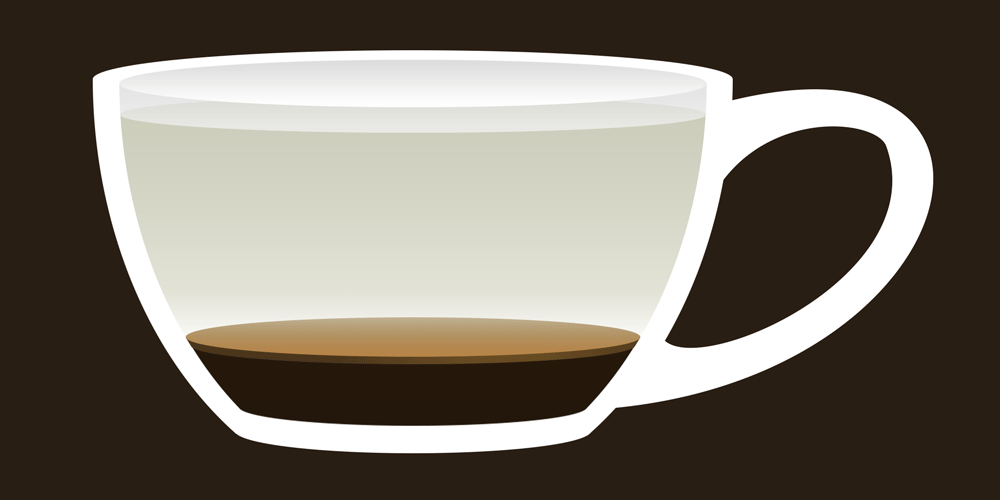
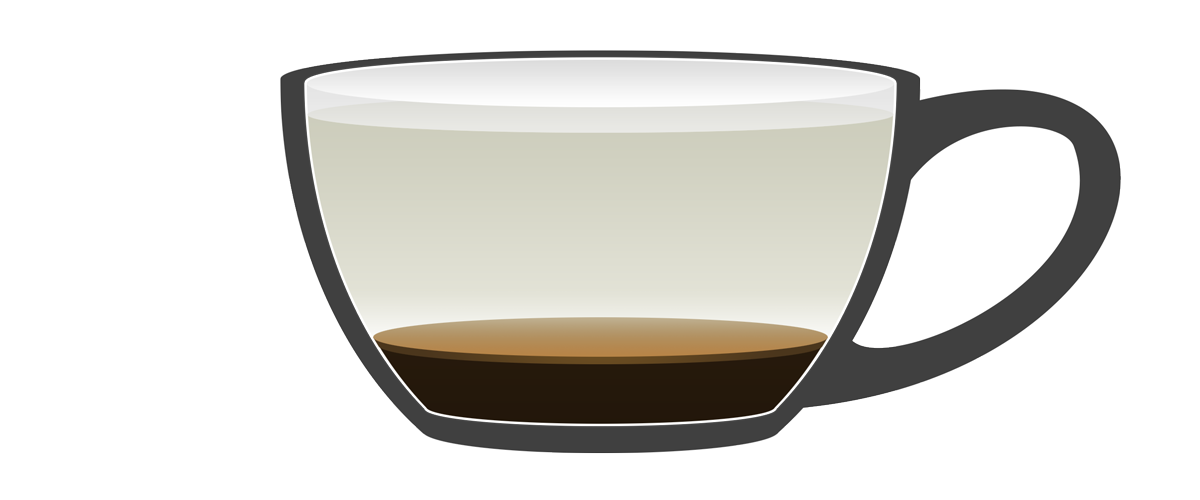
Made cup outlines dark in order to see milk.

diff --git a/coffeebar/templates/drinks.html b/coffeebar/templates/drinks.html
@@ -97,9 +97,8 @@
             color: #ffffff;
         }
         .drink-name {
-            position: relative;
-            right: 9%;
             font-size: larger;
+            font-weight: bolder;
         }
     </style>
 {% endblock %}

diff --git a/coffeebar/templates/base.html b/coffeebar/templates/base.html
@@ -14,7 +14,7 @@
 {% block scripts %}
     <style>
         body {
-            background-color: #291e14;
+            background-color: #494233;
         }
     </style>
 {% endblock %}
